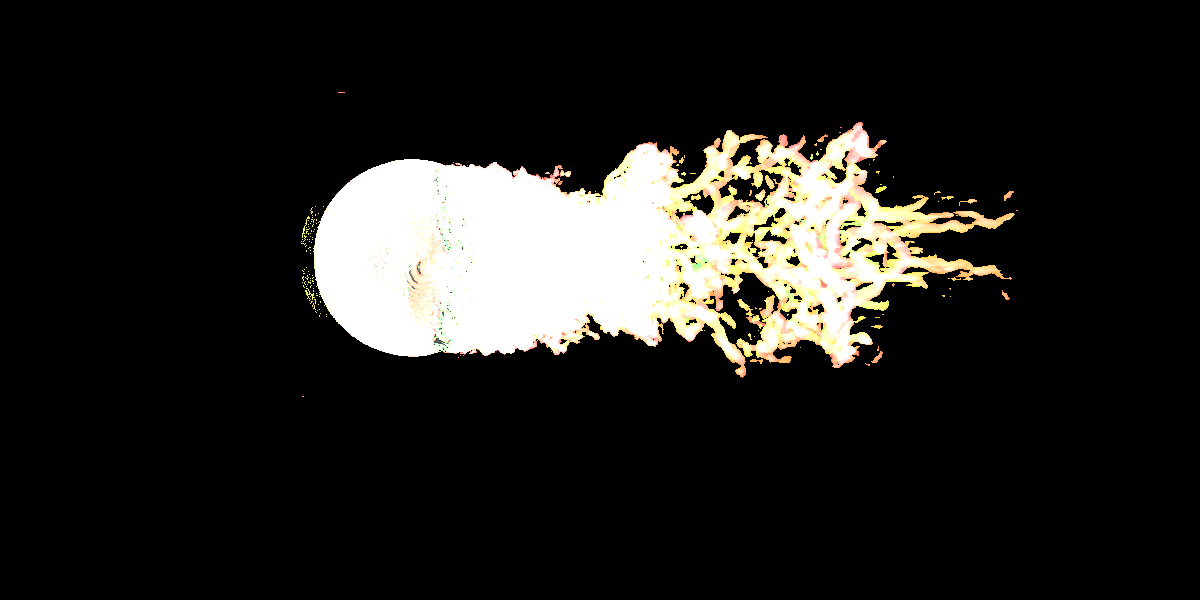
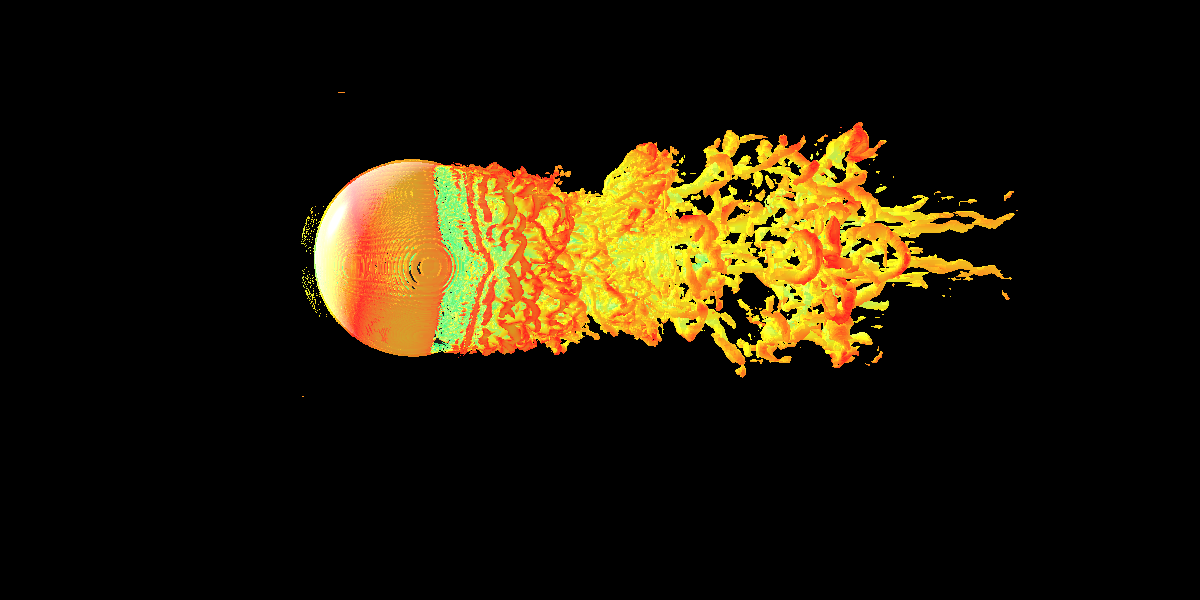
AABB

Changed region(s): [[0.2467, 0.21, 0.8633, 0.63]]

diff --git a/src/integrator.cpp b/src/integrator.cpp
@@ -46,7 +46,7 @@ Vec3f Integrator::radiance(Ray &ray, float t0, float t1) const {
     float dst_opacity = 0;
     float dx;
     int layer;
-    auto accessor = scene->moduleGrids[0]->getAccessor();
+    auto accessor = scene->QGrids[0]->getAccessor();
     bool flag = false;
     while (src_t < t1 - step_size) {
         src_t += step_size;
@@ -55,7 +55,7 @@ Vec3f Integrator::radiance(Ray &ray, float t0, float t1) const {
 
         if (layer != -1) {
             step_size = scene->grids[layer].dx / 2;
-            accessor = scene->moduleGrids[layer]->getAccessor();
+            accessor = scene->QGrids[layer]->getAccessor();
         }
         src_opacity = (float) (1.0 - std::pow(1 - src_opacity, step_size));
         dst_color += (1 - dst_opacity) * src_color;
@@ -69,10 +69,11 @@ Vec3f Integrator::radiance(Ray &ray, float t0, float t1) const {
                     low_z = ijk + openvdb::Coord{0, 0, -1};
             openvdb::Coord high_x = ijk + openvdb::Coord{1, 0, 0}, high_y = ijk + openvdb::Coord{0, 1, 0},
                     high_z = ijk + openvdb::Coord{0, 0, 1};
+            dx = scene->grids[layer].dx;
             float grad_x = (accessor.getValue(high_x) - accessor.getValue(low_x)) / (2 * dx);
             float grad_y = (accessor.getValue(high_y) - accessor.getValue(low_y)) / (2 * dx);
             float grad_z = (accessor.getValue(high_z) - accessor.getValue(low_z)) / (2 * dx);
-            Vec3f normal = Vec3f{grad_x, grad_y, grad_z};
+            Vec3f normal = -Vec3f{grad_x, grad_y, grad_z};
             normal.normalize();
             Interaction interaction{src_pos, -1, normal};
             dst_color += radiance(ray, interaction, src_color);
@@ -84,16 +85,15 @@ Vec3f Integrator::radiance(Ray &ray, float t0, float t1) const {
 
 Vec3f Integrator::radiance(Ray &ray, Interaction &interaction, Vec3f objColor) const {
     Vec3f radiance;
-    Vec3f ambient{0.1, 0.1, 0.1};
+    Vec3f ambient{0.01, 0.01, 0.01};
     Vec3f diffuse{0, 0, 0};
     Vec3f specular{0, 0, 0};
     Ray shadow_ray{interaction.pos, -scene->lightDir};
     Interaction new_interaction{};
-    if (interaction.dist > 0 && !scene->sphere.intersect(shadow_ray, new_interaction)) {
+    if (interaction.dist < 0 || !scene->sphere.intersect(shadow_ray, new_interaction)) {
         auto lightDir = -scene->lightDir;
         Vec3f viewDir = -ray.dir();
         float diff = std::max(interaction.normal.dot(lightDir), 0.0f);
-//        set material of sphere to white.
         diffuse += diff * objColor;
         if (lightDir.dot(interaction.normal) > 0) {
             Vec3f reflectDir = -lightDir - 2.0f * interaction.normal.dot(-lightDir) * interaction.normal;

diff --git a/src/main.cpp b/src/main.cpp
@@ -23,7 +23,7 @@ int main() {
     scene.setVectorGrids(VectorGrids);
     scene.genQGrids();
     scene.setSphere(sphere);
-    scene.setLight(Vec3f{10, -5, 0}, Vec3f{1, 1, 1});
+    scene.setLight(Vec3f{10, -5, 10}, Vec3f{1, 1, 1});
     Integrator integrator(std::make_shared<Camera>(cam), std::make_shared<Scene>(scene));
     std::cout << "Start Rendering..." << std::endl;
     auto start = std::chrono::steady_clock::now();
